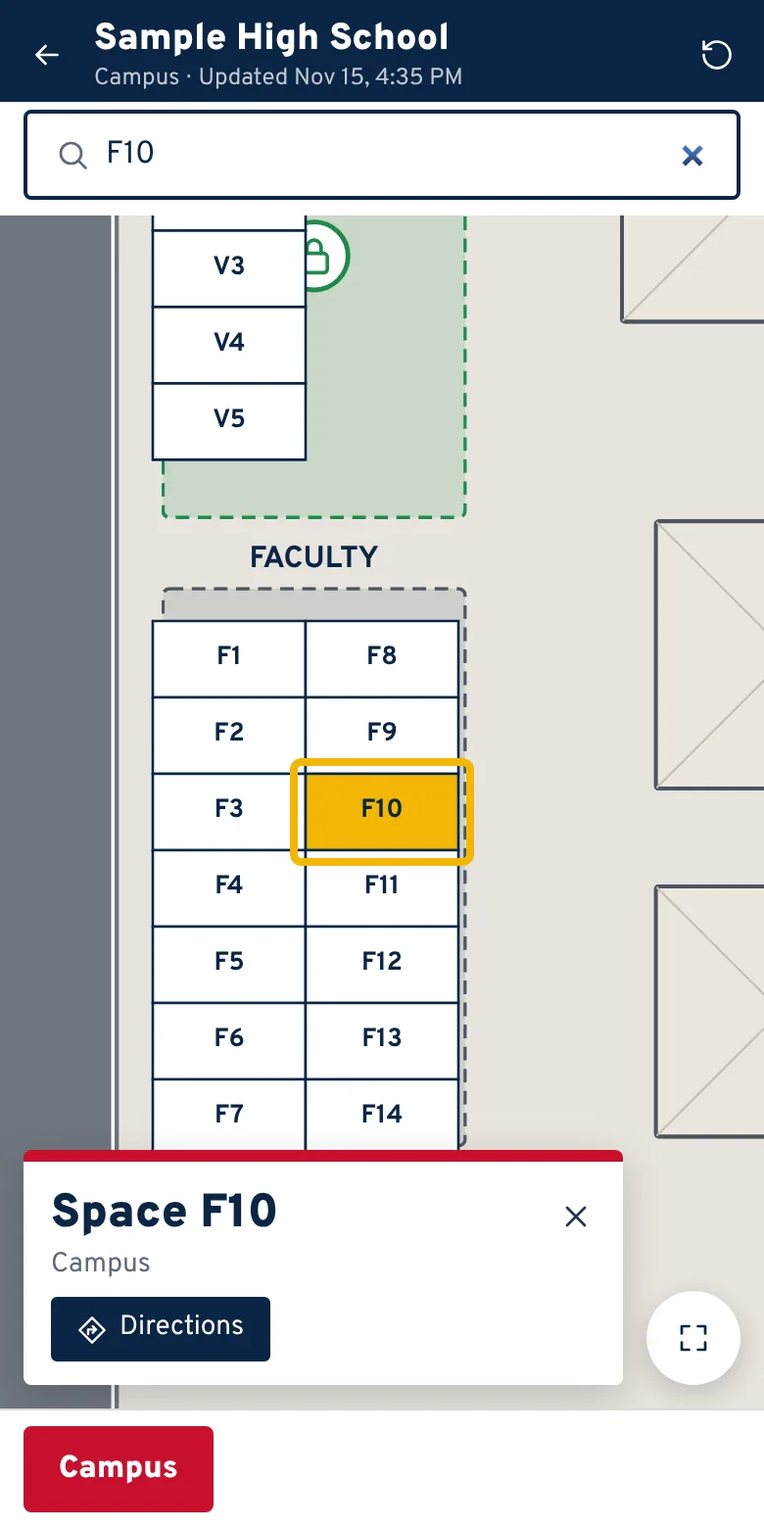
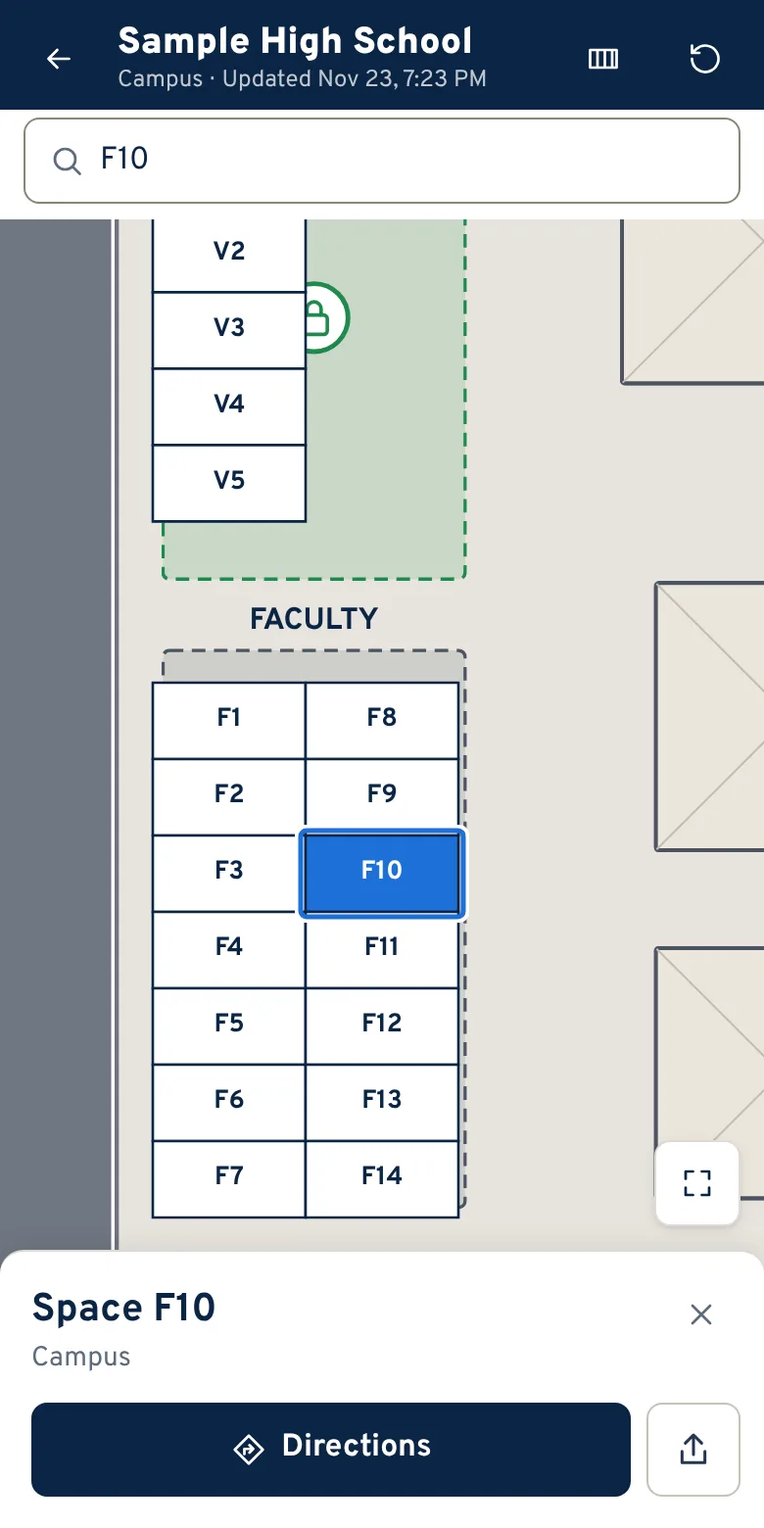
Redesign the phone space card as a bottom sheet with a calmer selection
The selected space is now solid blue with a thin ring instead of yellow with a
thick orange ring. The card docks to the bottom of the map with a full-width
Directions button, no red floor stripe and no blue box around it, and the
Show whole floor button rides above it. Floor tabs are neutral with a small
color swatch, and a one-floor map shows no floor bar. Directions panels match.
Site phone screenshots and social previews are re-shot.

Claude-Session: https://claude.ai/code/session_01YHagmMeLpiWnjRXjNjMFvr

diff --git a/src/styles.css b/src/styles.css
@@ -381,35 +381,48 @@ label.check { flex-direction: row !important; align-items: center; gap: 8px; fon
 .viewer-header { display: flex; align-items: center; gap: 8px; padding: 8px 8px 4px; }
 .viewer-header .titles { flex: 1; display: flex; flex-direction: column; min-width: 0; }
 .viewer-header .titles h1 { font-size: 17px; font-weight: 700; line-height: 1.2; overflow: hidden; text-overflow: ellipsis; white-space: nowrap; }
-.viewer-search { position: relative; margin: 4px 12px 8px; display: flex; align-items: center; gap: 8px; border: 1.5px solid var(--field-border); border-radius: 999px; padding: 0 14px; color: var(--muted); }
+.viewer-search { position: relative; margin: 4px 12px 8px; display: flex; align-items: center; gap: 8px; border: 1px solid var(--field-border); border-radius: 8px; padding: 0 12px; color: var(--muted); background: var(--panel); }
 .viewer-search input { flex: 1; border: 0 !important; padding: 11px 0 !important; font-size: 16px; outline: none; background: transparent !important; color: var(--text); }
 .results { position: absolute; top: calc(100% + 4px); left: 0; right: 0; list-style: none; margin: 0; padding: 4px; background: var(--panel); border: 1px solid var(--border); border-radius: 12px; box-shadow: 0 12px 30px rgba(0,0,0,0.15); z-index: 20; max-height: 50vh; overflow: auto; }
 .results button { width: 100%; display: flex; justify-content: space-between; gap: 12px; padding: 12px; border: 0; background: none; border-radius: 8px; cursor: pointer; font-size: 15px; color: var(--text); }
 .results button:hover { background: var(--hover); }
 .results .none { padding: 12px; color: var(--muted); }
 .viewer-canvas { flex: 1; position: relative; overflow: hidden; background: var(--canvas); touch-action: none; min-height: 0; }
-.fab { position: absolute; right: 12px; bottom: 12px; width: 48px; height: 48px; border-radius: 50%; border: 0; background: var(--panel); box-shadow: 0 4px 14px rgba(0,0,0,0.18); display: grid; place-items: center; cursor: pointer; }
-.info-card { position: absolute; left: 12px; right: 72px; bottom: 12px; background: var(--panel); border-radius: 12px; box-shadow: 0 6px 20px rgba(0,0,0,0.18); padding: 12px 8px 12px 14px; display: flex; align-items: center; gap: 8px; }
-.info-card > div { flex: 1; display: flex; flex-direction: column; gap: 2px; }
-.info-card strong { font-size: 18px; }
-.viewer-floors { display: flex; gap: 6px; overflow-x: auto; padding: 8px 12px calc(8px + env(safe-area-inset-bottom)); border-top: 1px solid var(--border); }
-.viewer-floors button { flex: none; padding: 10px 16px; border-radius: 999px; border: 1px solid var(--border-strong); background: var(--panel); font-size: 15px; cursor: pointer; }
-.viewer-floors button.active { background: var(--primary); color: #fff; border-color: var(--primary); font-weight: 700; }
+.fab { position: absolute; right: 12px; bottom: 12px; width: 44px; height: 44px; border-radius: 8px; border: 1px solid var(--border); background: var(--panel); color: var(--text); box-shadow: 0 1px 2px rgba(15,23,42,0.08), 0 2px 8px rgba(15,23,42,0.08); display: grid; place-items: center; cursor: pointer; transition: bottom 0.15s ease; }
+/* On a phone the map button rides just above the place card, never under or beside it. */
+.viewer-canvas:has(.info-card) .fab { bottom: var(--sheet-room, 172px); }
+.info-card {
+  position: absolute; left: 0; right: 0; bottom: 0; z-index: 4;
+  display: grid; grid-template-columns: minmax(0, 1fr) auto; align-items: start; gap: 14px 8px;
+  padding: 16px 12px calc(16px + env(safe-area-inset-bottom)) 16px;
+  background: var(--panel); color: var(--text);
+  border-top: 1px solid var(--border); border-radius: 12px 12px 0 0;
+  box-shadow: 0 -2px 12px rgba(15,23,42,0.08);
+}
+.info-head { display: flex; flex-direction: column; gap: 4px; min-width: 0; padding-top: 2px; }
+.info-card strong { font-size: 20px; font-weight: 700; line-height: 1.2; overflow-wrap: anywhere; }
+.info-meta { display: flex; align-items: center; gap: 8px; color: var(--muted); font-size: 14px; }
+.floor-swatch { width: 10px; height: 10px; border-radius: 2px; background: var(--floor-color); flex: none; }
+.info-close { margin: -6px -2px 0 0; color: var(--muted); }
+.info-actions { grid-column: 1 / -1; display: flex; gap: 8px; }
+.info-actions .btn { min-height: 48px; padding: 0 16px; border-radius: 8px; font-size: 16px; font-weight: 600; gap: 8px; }
+.info-actions .go-inside, .info-actions .directions-btn { flex: 1; }
+.info-actions .share-btn { flex: none; width: 48px; padding: 0; color: var(--text-soft); }
+@media (min-width: 900px) {
+  .info-card { left: 16px; right: auto; bottom: 16px; width: 380px; padding-bottom: 16px; border: 1px solid var(--border); border-radius: 12px; box-shadow: 0 4px 16px rgba(15,23,42,0.12); }
+  .viewer-canvas:has(.info-card) .fab { bottom: 12px; }
+}
+.viewer-floors { display: flex; gap: 8px; overflow-x: auto; padding: 8px 12px calc(8px + env(safe-area-inset-bottom)); border-top: 1px solid var(--border); background: var(--panel); }
+.viewer-floors button { flex: none; display: inline-flex; align-items: center; gap: 8px; min-height: 40px; padding: 0 14px; border-radius: 8px; border: 1px solid var(--border-strong); background: var(--panel); color: var(--text); font-size: 15px; font-weight: 600; cursor: pointer; }
+/* Floors keep their color code as a small swatch, not a whole colored button. */
+.viewer-floors button:not(.outside)::before { content: ''; width: 10px; height: 10px; border-radius: 2px; background: var(--floor-color); flex: none; }
+.viewer-floors button:hover:not(.active) { background: var(--hover); }
+.viewer-floors button.active { background: var(--primary); color: var(--on-primary); border-color: var(--primary); }
+.viewer-floors button.active::before { box-shadow: 0 0 0 1.5px var(--on-primary); }
 .viewer-floors button.outside { display: inline-flex; align-items: center; gap: 4px; font-weight: 700; }
 .viewer-building { flex: none; align-self: center; font-weight: 700; padding: 0 6px; max-width: 45vw; overflow: hidden; text-overflow: ellipsis; white-space: nowrap; }
-.info-card .go-inside { display: inline-flex; align-items: center; gap: 6px; flex: none; }
-.info-card { flex-wrap: wrap; }
-.info-card .directions-btn { display: inline-flex; align-items: center; gap: 6px; flex: none; }
-@media (max-width: 420px) {
-  .info-card > div { flex-basis: calc(100% - 52px); }
-  .info-card > .icon-btn { order: 1; align-self: flex-start; }
-  .info-card > .btn { order: 2; }
-  /* Close stays top right; Share sits on the button row, after Directions. */
-  .info-card > .share-btn { order: 3; align-self: center; }
-}
-
 /* Walking directions */
-.dir-sheet { position: absolute; left: 12px; right: 12px; bottom: 12px; max-height: 50%; display: flex; flex-direction: column; background: var(--panel); color: var(--text); border-radius: 12px; box-shadow: 0 6px 20px rgba(0,0,0,0.18); z-index: 5; }
+.dir-sheet { position: absolute; left: 0; right: 0; bottom: 0; max-height: 50%; display: flex; flex-direction: column; background: var(--panel); color: var(--text); border-top: 1px solid var(--border); border-radius: 12px 12px 0 0; box-shadow: 0 -2px 12px rgba(15,23,42,0.08); padding-bottom: env(safe-area-inset-bottom); z-index: 5; }
 .dir-head { display: flex; align-items: flex-start; gap: 8px; padding: 12px 8px 8px 14px; }
 .dir-head > div { flex: 1; display: flex; flex-direction: column; gap: 2px; min-width: 0; }
 .dir-head strong { font-family: var(--font-display); font-size: 19px; overflow: hidden; text-overflow: ellipsis; }
@@ -419,20 +432,18 @@ label.check { flex-direction: row !important; align-items: center; gap: 8px; fon
 .dir-option .muted, .dir-steps .muted { font-size: 13px; text-align: right; }
 .dir-option.primary { border: 2px solid var(--primary); font-weight: 700; }
 .dir-option:hover, .dir-steps button:hover { background: var(--hover); }
-.dir-steps button.here { border: 2px solid var(--floor-color, var(--primary)); font-weight: 700; }
+.dir-steps button.here { border: 1px solid var(--primary); box-shadow: inset 0 0 0 1px var(--primary); background: var(--primary-soft); font-weight: 700; }
 .dir-steps { counter-reset: step; }
 .dir-actions { display: flex; align-items: center; gap: 8px; flex-wrap: wrap; padding: 4px 12px 12px; }
 .dir-check { display: inline-flex; align-items: center; gap: 6px; font-size: 15px; min-height: 44px; }
 .dir-check input { width: 20px; height: 20px; }
 .dir-note { margin: 0 14px 8px; font-size: 14px; color: var(--muted); }
-@media (min-width: 900px) { .dir-sheet:not(.dir-banner) { right: auto; width: 420px; max-height: calc(100% - 24px); } .dir-banner { right: auto; width: 420px; } }
-.dir-banner { top: 12px; bottom: auto; flex-direction: row; align-items: center; justify-content: space-between; gap: 8px; padding: 8px 8px 8px 14px; font-weight: 700; max-height: none; }
+@media (min-width: 900px) { .dir-sheet { left: 16px; bottom: 16px; border: 1px solid var(--border); border-radius: 12px; box-shadow: 0 4px 16px rgba(15,23,42,0.12); padding-bottom: 0; } .dir-sheet:not(.dir-banner) { right: auto; width: 420px; max-height: calc(100% - 32px); } .dir-banner { right: auto; width: 420px; } }
+.dir-banner { top: 12px; left: 12px; right: 12px; bottom: auto; border: 1px solid var(--border); border-radius: 12px; box-shadow: 0 2px 8px rgba(15,23,42,0.10); flex-direction: row; align-items: center; justify-content: space-between; gap: 8px; padding: 8px 8px 8px 14px; font-weight: 700; max-height: none; }
 .viewer-floors button.on-route { position: relative; }
 .viewer-floors button.on-route::after { content: ''; position: absolute; top: 4px; right: 4px; width: 8px; height: 8px; border-radius: 50%; background: var(--text); border: 2px solid var(--panel); }
-:root[data-theme='signage'] .dir-sheet { border-radius: 4px; border-top: 6px solid var(--floor-color, var(--text)); }
-:root[data-theme='signage'] .dir-banner { border-top: 0; border-left: 6px solid var(--floor-color, var(--text)); }
 :root[data-theme='signage'] .dir-option, :root[data-theme='signage'] .dir-steps button { border-radius: 4px; }
-:root[data-theme='night'] .dir-sheet { background: #232428; border-left: 6px solid var(--primary); }
+:root[data-theme='night'] .dir-sheet { background: #232428; }
 @media (min-width: 900px) {
   .viewer-search { max-width: 520px; }
 }
@@ -446,7 +457,6 @@ h1, h2, .brand h1, .map-name, .props-header strong, .floor-tab, .viewer-header .
   font-family: var(--font-display);
 }
 .floor-tab { --floor-color: var(--primary); --on-floor: var(--on-primary); }
-.viewer-floors button.active { background: var(--floor-color, var(--primary)); border-color: var(--floor-color, var(--primary)); color: var(--on-floor, var(--on-primary)); }
 .floor-dot { width: 10px; height: 10px; border-radius: 2px; background: var(--floor-color); flex: none; display: none; }
 
 /* Night shift */
@@ -465,7 +475,6 @@ h1, h2, .brand h1, .map-name, .props-header strong, .floor-tab, .viewer-header .
 :root[data-theme='night'] .viewer, :root[data-theme='night'] .home { background: var(--bg); }
 :root[data-theme='night'] .viewer-search { border-color: var(--field-border); background: #232428; }
 :root[data-theme='night'] .results, :root[data-theme='night'] .info-card, :root[data-theme='night'] .fab, :root[data-theme='night'] .menu { background: #232428; color: var(--text); border-color: #34363c; }
-:root[data-theme='night'] .info-card { border-left: 6px solid var(--primary); }
 :root[data-theme='night'] .info-card strong { font-size: 26px; letter-spacing: 0.02em; }
 :root[data-theme='night'] .viewer-header .titles h1 { font-size: 22px; text-transform: uppercase; letter-spacing: 0.03em; }
 :root[data-theme='night'] .viewer-floors { background: var(--chrome); border-top-color: #000; }
@@ -493,12 +502,8 @@ h1, h2, .brand h1, .map-name, .props-header strong, .floor-tab, .viewer-header .
 :root[data-theme='signage'] .tile:hover { border-color: var(--text); background: #fff; }
 :root[data-theme='signage'] .logo { background: #f2b705; color: #0b2545; border-radius: 3px; font-weight: 900; }
 :root[data-theme='signage'] .viewer-header .titles h1 { font-size: 19px; font-weight: 800; }
-:root[data-theme='signage'] .viewer-search { border: 2px solid var(--text); border-radius: 4px; }
+:root[data-theme='signage'] .viewer-search { border-color: var(--field-border); }
 :root[data-theme='signage'] .viewer-floors { background: var(--panel); }
-:root[data-theme='signage'] .viewer-floors button { border-radius: 4px; border: 2px solid var(--floor-color); color: var(--text); font-weight: 800; font-size: 16px; }
-:root[data-theme='signage'] .viewer-floors button.active { background: var(--floor-color); color: var(--on-floor); }
-:root[data-theme='signage'] .info-card { border-radius: 4px; border-top: 6px solid var(--floor-color, var(--text)); }
-:root[data-theme='signage'] .info-card strong { font-size: 24px; font-weight: 900; }
 :root[data-theme='signage'] .map-card { border-radius: 4px; border-width: 2px; }
 :root[data-theme='signage'] .preview-banner { background: #f2b705; color: #0b2545; font-weight: 700; }
 
@@ -839,9 +844,11 @@ h1, h2, h3, h4, .trash-list strong, .site-meta { overflow-wrap: anywhere; }
 @media (pointer: coarse) {
   .viewer .icon-btn { width: 44px; height: 44px; }
   .viewer-floors button { min-height: 44px; }
-  .viewer .info-card .btn, .viewer .dir-actions .btn, .viewer .dir-banner .btn { min-height: 44px; }
+  .viewer .dir-actions .btn, .viewer .dir-banner .btn { min-height: 44px; }
 }
-.info-card:focus-visible, .dir-sheet:focus-visible { outline: 3px solid var(--focus); outline-offset: 2px; }
+/* Focus is moved to the card or panel so a screen reader reads it; it is a region, not a control,
+   so it gets no ring (its first button does once Tab is pressed). */
+.info-card:focus, .dir-sheet:focus { outline: none; }
 
 /* The floor as a list (viewer) */
 .floor-list .list-group ul { list-style: none; margin: 0; padding: 0; display: flex; flex-direction: column; gap: 4px; }

diff --git a/src/viewer/ViewerPage.tsx b/src/viewer/ViewerPage.tsx
@@ -445,11 +445,32 @@ export function ViewerPage({ mapId, repo, preview, backTo = '/' }: {
         {backTo !== null && <button className="btn" onClick={() => navigate(backTo)}>All maps</button>}
       </div>
     );
+  // Room the info card takes at the bottom of the map: a guess until the card has been shown,
+  // then its real height (it varies with the buttons). Once the card is on screen, measure it:
+  // the map button sits just above it on a phone, and if the space turned out to be under it,
+  // slide the map a little more.
+  const cardRoom = useRef(160);
+  const reKeep = useRef<(id: string) => void>(() => {});
+  const tappedId = tapped?.id;
+  useLayoutEffect(() => {
+    const box = boxRef.current;
+    const card = box?.querySelector<HTMLElement>('.info-card');
+    if (!box || !card || !tappedId) return;
+    const b = box.getBoundingClientRect();
+    const c = card.getBoundingClientRect();
+    const room = Math.round(b.bottom - c.top) + 12;
+    box.style.setProperty('--sheet-room', `${room}px`);
+    // A card beside the map (wide screens) doesn't cover the middle of it.
+    if (c.width > b.width * 0.6 && room !== cardRoom.current) {
+      cardRoom.current = room;
+      reKeep.current(tappedId);
+    }
+  }, [tappedId]);
   if (!doc || !floor) return <div className="page-message"><p>Loading map…</p></div>;
 
-  // Room the info card takes at the bottom of the map, so a tapped space never hides under it.
-  const CARD_ROOM = 96;
   const keepInView = (o: MapObject) => {
+    // Room the info card takes at the bottom of the map, so a tapped space never hides under it.
+    const CARD_ROOM = cardRoom.current;
     const v = viewRef.current;
     const sx = v.x + o.x * v.scale;
     const sy = v.y + o.y * v.scale;
@@ -465,6 +486,11 @@ export function ViewerPage({ mapId, repo, preview, backTo = '/' }: {
       viewRef.current = next;
       setView(next);
     }
+  };
+
+  reKeep.current = (id: string) => {
+    const o = floor.objects.find((x) => x.id === id);
+    if (o) keepInView(o);
   };
 
   const focused = focus && focus.floorId === floor.id ? floor.objects.find((o) => o.id === focus.id) : undefined;
@@ -739,23 +765,23 @@ export function ViewerPage({ mapId, repo, preview, backTo = '/' }: {
             {focused && (
               <Group x={focused.x} y={focused.y} rotation={focused.rotation} listening={false}>
                 <Rect
-                  x={-focused.width / 2 - 6 / view.scale}
-                  y={-focused.height / 2 - 6 / view.scale}
-                  width={focused.width + 12 / view.scale}
-                  height={focused.height + 12 / view.scale}
-                  stroke={MAP_PALETTE.ring}
-                  strokeWidth={4 / view.scale}
+                  x={-focused.width / 2 - 4.5 / view.scale}
+                  y={-focused.height / 2 - 4.5 / view.scale}
+                  width={focused.width + 9 / view.scale}
+                  height={focused.height + 9 / view.scale}
+                  stroke={MAP_PALETTE.ringEdge}
+                  strokeWidth={2 / view.scale}
                   cornerRadius={4 / view.scale}
-                  name="focus-ring"
                 />
                 <Rect
-                  x={-focused.width / 2 - 8.5 / view.scale}
-                  y={-focused.height / 2 - 8.5 / view.scale}
-                  width={focused.width + 17 / view.scale}
-                  height={focused.height + 17 / view.scale}
-                  stroke={MAP_PALETTE.ringEdge}
-                  strokeWidth={1.5 / view.scale}
-                  cornerRadius={6 / view.scale}
+                  x={-focused.width / 2 - 2.5 / view.scale}
+                  y={-focused.height / 2 - 2.5 / view.scale}
+                  width={focused.width + 5 / view.scale}
+                  height={focused.height + 5 / view.scale}
+                  stroke={MAP_PALETTE.ring}
+                  strokeWidth={2.5 / view.scale}
+                  cornerRadius={3 / view.scale}
+                  name="focus-ring"
                 />
               </Group>
             )}
@@ -779,23 +805,28 @@ export function ViewerPage({ mapId, repo, preview, backTo = '/' }: {
         )}
         {info && !dir && !listOpen && (
           <section className="info-card" aria-label={info.title} tabIndex={-1} data-testid="info-card">
-            <div>
+            <div className="info-head">
               <strong>{info.title}</strong>
-              <span className="muted">{[tappedFloor && floorTitle(doc, tappedFloor), info.detail].filter(Boolean).join(' · ')}</span>
+              <span className="info-meta">
+                {tappedFloor && group.length > 1 && <span className="floor-swatch" aria-hidden="true" />}
+                {[tappedFloor && floorTitle(doc, tappedFloor), info.detail].filter(Boolean).join(' · ')}
+              </span>
             </div>
-            {canGoIn && (
-              <button className="btn primary go-inside" onClick={() => goInside(tapped!.id)} data-testid="go-inside">
-                <Icon name="enter" size={16} /> Go inside
+            <button className="icon-btn info-close" aria-label="Close" onClick={() => { moveFocus.current = 'search'; setTapped(null); setFocus(null); }}><Icon name="close" /></button>
+            <div className="info-actions">
+              {canGoIn && (
+                <button className="btn primary go-inside" onClick={() => goInside(tapped!.id)} data-testid="go-inside">
+                  <Icon name="enter" size={18} /> Go inside
+                </button>
+              )}
+              <button className={`btn directions-btn${canGoIn ? '' : ' primary'}`} onClick={() => startDirections(tapped!)} data-testid="directions">
+                <Icon name="directions" size={18} /> Directions
               </button>
-            )}
-            <button className={`btn directions-btn${canGoIn ? '' : ' primary'}`} onClick={() => startDirections(tapped!)} data-testid="directions">
-              <Icon name="directions" size={16} /> Directions
-            </button>
-            <button className={`icon-btn share-btn${shared ? ' done' : ''}`} aria-label={shared ? 'Link copied' : `Share a link to ${info.title}`}
-              title={shared ? 'Link copied' : 'Share a link to this'} onClick={() => void share(tapped!)} data-testid="share">
-              <Icon name={shared ? 'check' : 'share'} />
-            </button>
-            <button className="icon-btn" aria-label="Close" onClick={() => { moveFocus.current = 'search'; setTapped(null); setFocus(null); }}><Icon name="close" /></button>
+              <button className={`btn share-btn${shared ? ' done' : ''}`} aria-label={shared ? 'Link copied' : `Share a link to ${info.title}`}
+                title={shared ? 'Link copied' : 'Share a link to this'} onClick={() => void share(tapped!)} data-testid="share">
+                <Icon name={shared ? 'check' : 'share'} size={20} />
+              </button>
+            </div>
             {shared && <span className="share-toast" role="status" data-testid="share-copied">Link copied</span>}
           </section>
         )}
@@ -829,6 +860,8 @@ export function ViewerPage({ mapId, repo, preview, backTo = '/' }: {
         )}
       </div>
 
+      {/* One floor and nothing to go back out to: the header already names it, so no bar. */}
+      {(inside || group.length > 1) && (
       <nav className="viewer-floors" aria-label="Floors">
         {inside && (
           <button className="outside" onClick={goOutside} data-testid="go-outside" title={`Back outside to ${inside.floor.name}`}>
@@ -849,6 +882,7 @@ export function ViewerPage({ mapId, repo, preview, backTo = '/' }: {
           </button>
         ))}
       </nav>
+      )}
       <p className="sr-only" role="status" aria-live="polite" data-testid="viewer-announce">{announcement}</p>
       <p className="sr-only" role="status" aria-live="polite" data-testid="viewer-floor-announce">{floorNote}</p>
     </main>

diff --git a/e2e/viewer-audit.mobile.spec.ts b/e2e/viewer-audit.mobile.spec.ts
@@ -14,3 +14,44 @@ test('phone: the card keeps Close at the top right and Share beside Directions',
   expect(Math.abs(share.y + share.height / 2 - (dirs.y + dirs.height / 2))).toBeLessThan(6); // same row as Directions
   expect(share.x).toBeGreaterThan(dirs.x + dirs.width);
 });
+
+test('phone: the card is a bottom sheet with a big Directions button, and the map button sits above it', async ({ page }) => {
+  const { id } = await seedGarage(page, 'Sheet Garage');
+  await page.goto(`/#/view/${id}`);
+  await findSpace(page, '1D3');
+  const canvas = (await page.locator('.viewer-canvas').boundingBox())!;
+  const card = (await page.getByTestId('info-card').boundingBox())!;
+  const dirs = (await page.getByTestId('directions').boundingBox())!;
+  // Edge to edge along the bottom of the map.
+  expect(card.x).toBeLessThanOrEqual(canvas.x + 1);
+  expect(card.width).toBeGreaterThanOrEqual(canvas.width - 2);
+  expect(Math.abs(card.y + card.height - (canvas.y + canvas.height))).toBeLessThan(2);
+  // Directions is the main thing to do: tall and most of the width.
+  expect(dirs.height).toBeGreaterThanOrEqual(48);
+  expect(dirs.width).toBeGreaterThan(card.width * 0.6);
+  // "Show whole floor" never overlaps the card.
+  await expect.poll(async () => { const f = (await page.getByTestId('reset-view').boundingBox())!; return f.y + f.height; }).toBeLessThanOrEqual(card.y - 4);
+  // The space itself stays above the card.
+  const ring = await page.evaluate(() => {
+    const K = (window as unknown as { Konva: { stages: { findOne: (s: string) => { getClientRect: () => { y: number; height: number } } | undefined; container: () => HTMLElement }[] } }).Konva;
+    const s = K.stages[0];
+    const r = s.findOne('.focus-ring')!.getClientRect();
+    return r.y + r.height + s.container().getBoundingClientRect().top;
+  });
+  expect(ring).toBeLessThan(card.y);
+});
+
+test('phone: a map with one floor shows no floor bar', async ({ page }) => {
+  await page.goto('/');
+  const id = await page.evaluate(async () => {
+    const { createQuickLot, QUICK_LOT_DEFAULTS } = await import('/src/model/quickLot.ts');
+    const { repository } = await import('/src/storage/indexedDbRepository.ts');
+    const doc = createQuickLot('One Floor Lot', { ...QUICK_LOT_DEFAULTS, floors: 1 });
+    await repository.createMap(doc);
+    await repository.publishMap(doc.id);
+    return doc.id;
+  });
+  await page.goto(`/#/view/${id}`);
+  await expect(page.getByTestId('viewer-facility')).toHaveText('One Floor Lot');
+  await expect(page.getByRole('navigation', { name: 'Floors' })).toHaveCount(0);
+});

diff --git a/src/theme.ts b/src/theme.ts
@@ -13,7 +13,7 @@ export interface MapPalette {
   highlightFill: string;
   highlightLabel: string;
   ring: string;
-  /** A thin dark edge around the ring, so a yellow ring still stands out on a light map (3:1 or more). */
+  /** A thin edge around the ring that sets it apart from dark lines and asphalt (dark edge for a yellow ring, white for a blue one). */
   ringEdge: string;
   selection: string;
   font: string;
@@ -21,16 +21,16 @@ export interface MapPalette {
 
 const PALETTES: Record<ThemeName, MapPalette> = {
   classic: {
-    spaceFill: '#ffffff', spaceStroke: '#1f2937', label: '#111827', highlightFill: '#fde68a', highlightLabel: '#111827',
-    ring: '#f59e0b', ringEdge: '#1f2937', selection: '#2563eb', font: 'Inter, "Segoe UI", Roboto, Helvetica, Arial, sans-serif',
+    spaceFill: '#ffffff', spaceStroke: '#1f2937', label: '#111827', highlightFill: '#2563eb', highlightLabel: '#ffffff',
+    ring: '#2563eb', ringEdge: '#ffffff', selection: '#2563eb', font: 'Inter, "Segoe UI", Roboto, Helvetica, Arial, sans-serif',
   },
   night: {
     spaceFill: '#383a40', spaceStroke: '#f4f1e8', label: '#ffffff', highlightFill: '#ffc629', highlightLabel: '#17181a',
     ring: '#ffc629', ringEdge: '#000000', selection: '#ffc629', font: '"Barlow Condensed", "IBM Plex Sans", sans-serif',
   },
   signage: {
-    spaceFill: '#ffffff', spaceStroke: '#0b2545', label: '#0b2545', highlightFill: '#f2b705', highlightLabel: '#0b2545',
-    ring: '#f2b705', ringEdge: '#0b2545', selection: '#0b2545', font: 'Overpass, "Segoe UI", sans-serif',
+    spaceFill: '#ffffff', spaceStroke: '#0b2545', label: '#0b2545', highlightFill: '#1d6fd8', highlightLabel: '#ffffff',
+    ring: '#1d6fd8', ringEdge: '#ffffff', selection: '#0b2545', font: 'Overpass, "Segoe UI", sans-serif',
   },
 };
 
